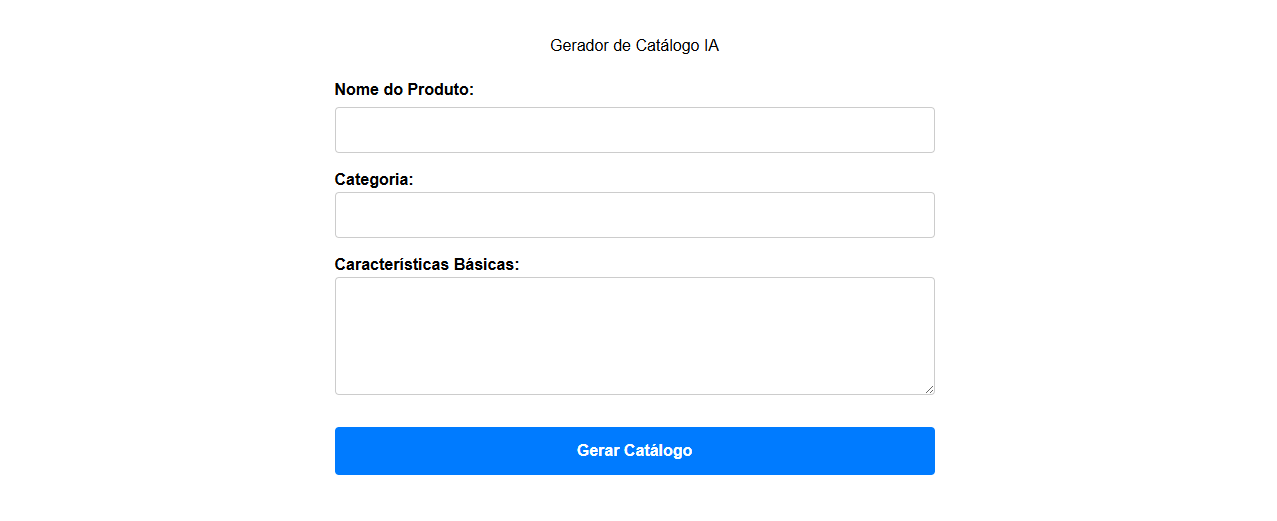
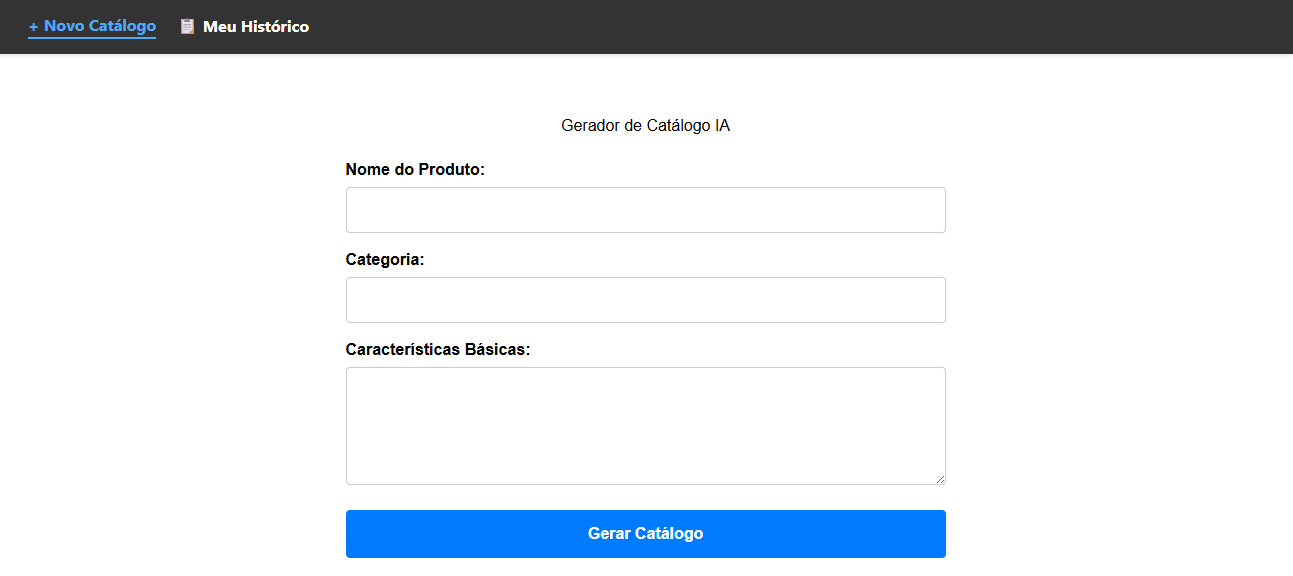
feat: implementa pesquisa em tempo real no dashboard e documenta nova interface visual no README

diff --git a/ai-catalog/resources/js/components/Dashboard.jsx b/ai-catalog/resources/js/components/Dashboard.jsx
@@ -5,6 +5,7 @@ export default function Dashboard() {
     const [products, setProducts] = useState([]);
     const [loading, setLoading] = useState(true);
     const [error, setError] = useState(null);
+    const [searchTerm, setSearchTerm] = useState('');
 
     // useEffect similar ao oninit do Angular
     useEffect(() => {
@@ -53,21 +54,45 @@ export default function Dashboard() {
     if (loading) return <div style={{ textAlign: 'center', padding: '40px', fontSize: '18px' }}>Carregando seu histórico... </div>;
     if (error) return <div style={{ color: 'red', textAlign: 'center', padding: '40px' }}>{error}</div>;
 
+    // Filtra os produtos 
+    const filteredProducts = products.filter(product => 
+        product.name.toLowerCase().includes(searchTerm.toLowerCase()) ||
+        product.category.toLowerCase().includes(searchTerm.toLowerCase())
+    );
+
     // Dashboard
     return (
         <div style={{ maxWidth: '1000px', margin: '40px auto', fontFamily: 'sans-serif' }}>
-            <h2 style={{ textAlign: 'center', color: '#333' }}>Histórico de Catálogos</h2>
+            <h2 style={{ textAlign: 'center', color: '#333' }}>Histórico de Catálogos </h2>
             
-            {products.length === 0 ? (
-                <p style={{ textAlign: 'center', color: '#666' }}>Nenhum produto gerado ainda.</p>
+            {/* A NOVA BARRA DE PESQUISA */}
+            <div style={{ display: 'flex', justifyContent: 'center', marginBottom: '30px', marginTop: '20px' }}>
+                <input 
+                    type="text" 
+                    placeholder="Pesquisar por nome ou categoria..." 
+                    value={searchTerm}
+                    onChange={(e) => setSearchTerm(e.target.value)}
+                    style={{ 
+                        width: '100%', maxWidth: '500px', padding: '12px 20px', 
+                        borderRadius: '25px', border: '1px solid #ccc',
+                        fontSize: '15px', outline: 'none', boxShadow: '0 2px 5px rgba(0,0,0,0.05)'
+                    }}
+                />
+            </div>
+
+            {/* quando nao tiver nada */}
+            {filteredProducts.length === 0 ? (
+                <p style={{ textAlign: 'center', color: '#666' }}>Nenhum produto encontrado na pesquisa.</p>
             ) : (
-                <div style={{ display: 'grid', gridTemplateColumns: 'repeat(auto-fill, minmax(300px, 1fr))', gap: '20px', marginTop: '30px' }}>
-                    {products.map(product => (
+                <div style={{ display: 'grid', gridTemplateColumns: 'repeat(auto-fill, minmax(300px, 1fr))', gap: '20px' }}>
+                    
+                    {filteredProducts.map(product => (
                         <div key={product.id} style={{ 
                             border: '1px solid #e0e0e0', borderRadius: '8px', padding: '20px',
                             backgroundColor: '#fff', boxShadow: '0 4px 6px rgba(0,0,0,0.05)',
                             display: 'flex', flexDirection: 'column'
                         }}>
+                    
                             <div style={{ display: 'flex', justifyContent: 'space-between', alignItems: 'flex-start', marginBottom: '15px' }}>
                                 <h3 style={{ margin: 0, color: '#007BFF', fontSize: '18px' }}>{product.name}</h3>
                                 

diff --git a/README.md b/README.md
@@ -26,10 +26,6 @@ Para contornar as instabilidades em provedores alterei a arquitetura para consum
 
 O projeto está em evolução contínua. Abaixo estão meus passos já concluídos e os próximos desafios arquiteturais e de interface:
 
-## Desenvolvimento e Roadmap
-
-O projeto está em evolução contínua. Abaixo estão as etapas concluídas e os próximos desafios arquiteturais, separados por áreas de conhecimento:
-
 ### Fases 1 e 2: Fundação e Integração Full-Stack
 - [x] Configuração de Banco de Dados, Migrations e Models (`Product`).
 - [x] Implementação de Service Pattern e Tratamento de Exceções.
@@ -42,7 +38,7 @@ O projeto está em evolução contínua. Abaixo estão as etapas concluídas e o
 - [x] **Exclusão de Registros:** Rota de DELETE e atualização de estado no React para remover catálogos indesejados.
 
 ### Fase 4: Qualidade e Performance (Próximos Passos)
-- [ ] **Filtros e Buscas:** Adicionar barra de pesquisa no Dashboard rodando em tempo real no Front-end (Filtro JS).
+- [x] **Filtros e Buscas:** Adicionar barra de pesquisa no Dashboard rodando em tempo real no Front-end (Filtro JS).
 - [ ] **Testes Automatizados (PHPUnit / Pest):** Implementar testes unitários e de integração (testando endpoints REST e "Mockando" o serviço de IA).
 - [ ] **Filas (Queues & Jobs):** Transferir a chamada da IA para processamento em background (Redis/Database), liberando a tela do usuário imediatamente.
 
@@ -51,11 +47,13 @@ O projeto está em evolução contínua. Abaixo estão as etapas concluídas e o
 - [ ] **Home Lab e Deploy:** Configurar túneis seguros, pensando em Cloudflare Tunnels, para expor a aplicação local com o Ollama para a internet. Ou hospedar em servidor próprio.
 - [ ] **Flexibilidade de Providers:** Refatorar o `AiService` para aceitar múltiplas IAs (Local ou Cloud) alternáveis via `.env`.
 
-## Interface atual (atualizado em 15/08/26)
+## Interface atual (atualizado em 16/08/2026)
 
 ![Formulário](images/Formulario.png)
-![Tela com resultado](images/TelaComResultado.png)
-![Resultado do marketing](images/DescricaoGerada.png)
+![Formulário Processando IA](images/FormularioGerando.png)
+![Tela com Resultado](images/TelaComResultado.png)
+![Dashboard de Histórico](images/HistoricoDashboard.png)
+![Pesquisa no Dashboard](images/PesquisaDashboard.png)
 
 ---
 *Projeto desenvolvido como portfólio técnico e roteiro prático de estudos.*
